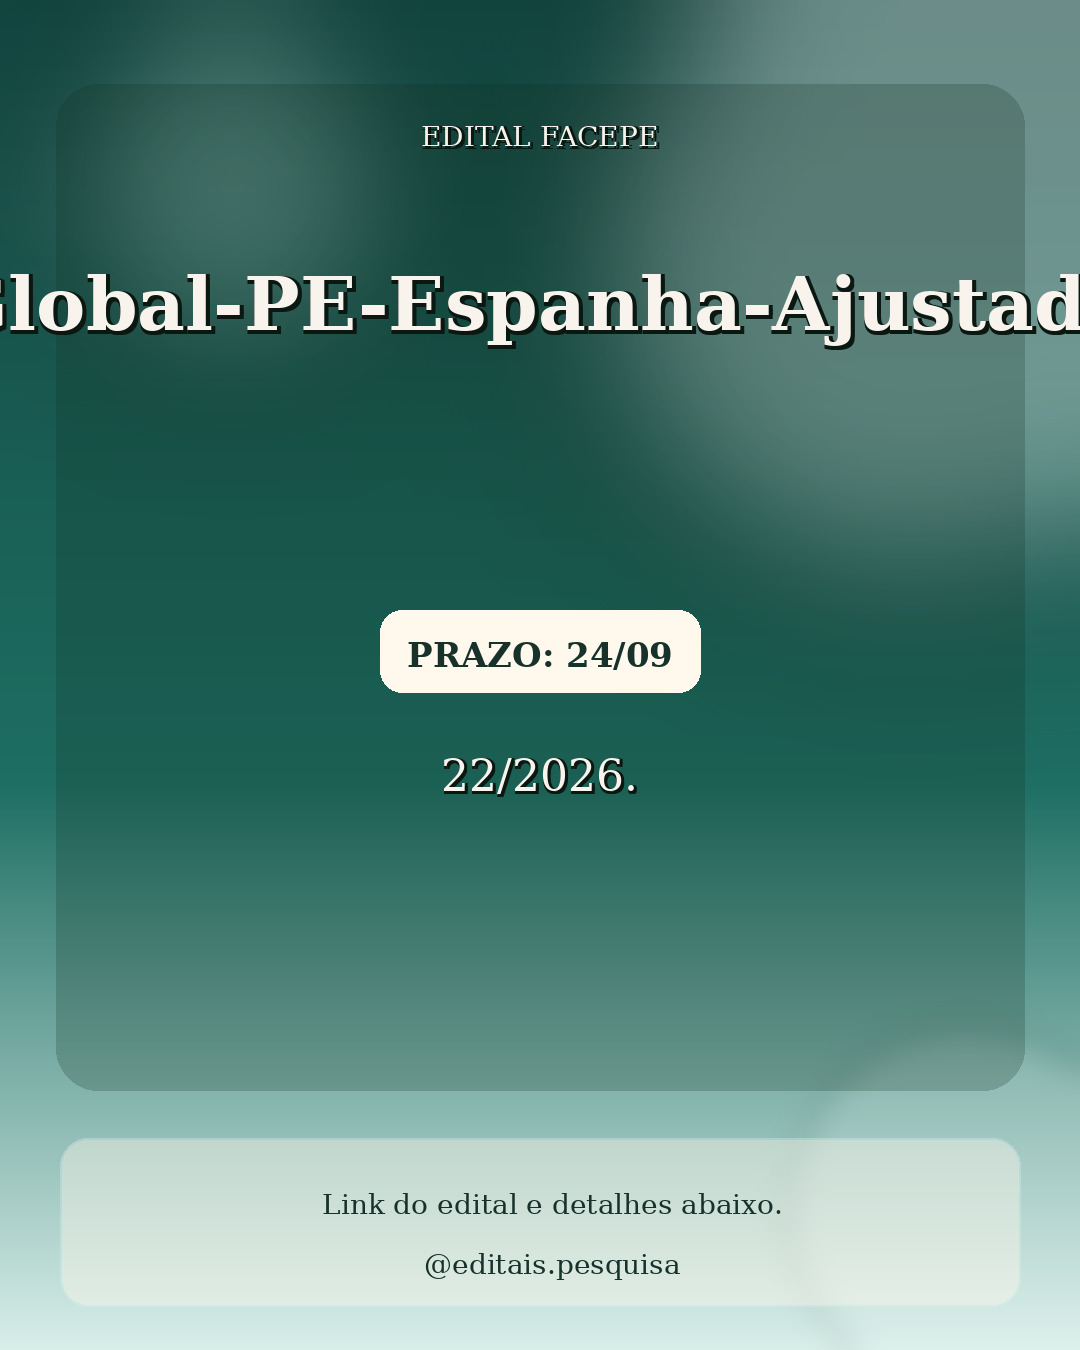
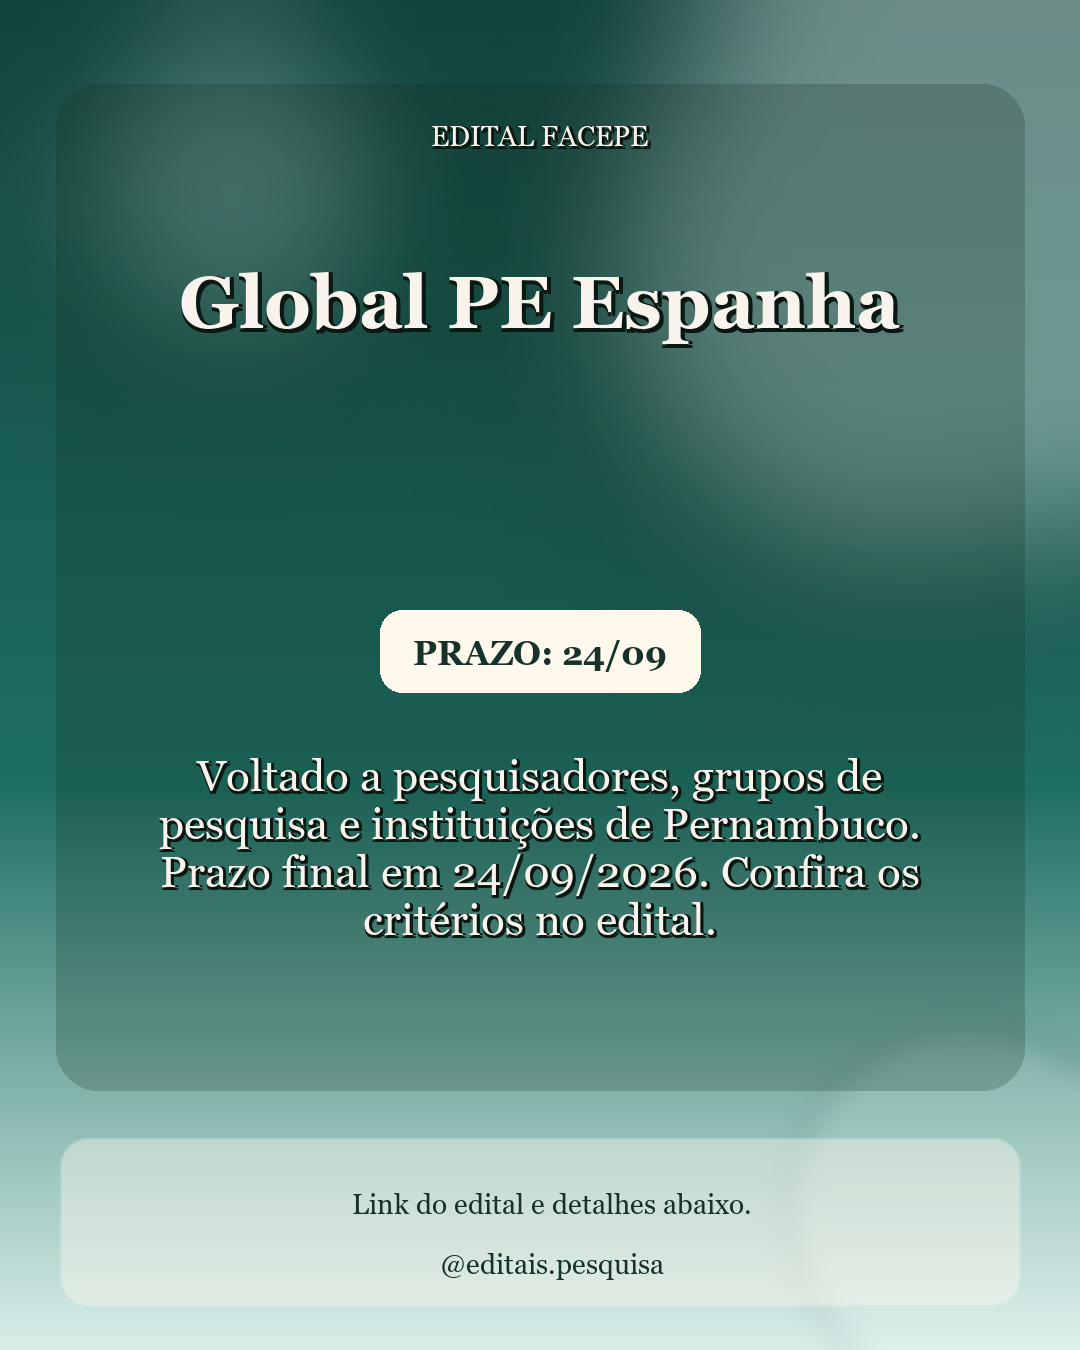
fix: keep long edital titles inside cards

diff --git a/tests/test_instagram_layout.py b/tests/test_instagram_layout.py
@@ -1,0 +1,52 @@
+from __future__ import annotations
+
+import unittest
+
+from src.config import Settings
+from src.models import Edital
+from src.services.instagram_service import InstagramService
+from src.services.render_service import RenderService
+
+
+def build_edital(**overrides: object) -> Edital:
+    payload: dict[str, object] = {
+        "id": "facepe_global_pe",
+        "titulo": "22/2026 -",
+        "orgao": "Fundacao de Amparo a Ciencia e Tecnologia do Estado de Pernambuco",
+        "fonte": "FACEPE",
+        "uf": "PE",
+        "categoria": "pesquisa",
+        "link": "https://www.facepe.br/2026.07.15-Global-PE-Espanha-Ajustado.pdf",
+        "resumo": "22/2026.",
+        "publico_alvo": "Pesquisadores",
+        "data_abertura": "2026-07-02",
+        "data_expiracao": "2026-09-24",
+        "data_ultima_coleta": "2026-07-31T00:00:00-03:00",
+    }
+    payload.update(overrides)
+    return Edital(**payload)
+
+
+class InstagramLayoutTests(unittest.TestCase):
+    def test_facepe_link_title_removes_filename_markers(self) -> None:
+        fields = RenderService().build_card_fields(build_edital())
+
+        self.assertEqual(fields["card_title"], "Global PE Espanha")
+        self.assertTrue(fields["card_summary"].startswith("Voltado a pesquisadores."))
+        self.assertIn("Prazo final em 24/09/2026.", fields["card_summary"])
+
+    def test_long_unbroken_title_stays_inside_card_width(self) -> None:
+        service = InstagramService(Settings())
+        max_width = service.FEED_WIDTH - 168
+        lines, font = service._fit_title_layout(
+            "Global-PE-Espanha-Ajustado-Sem-Espacos-Para-Testar",
+            max_width=max_width,
+            max_lines=4,
+        )
+
+        self.assertLessEqual(len(lines), 4)
+        self.assertTrue(all(service._text_width(line, font) <= max_width for line in lines))
+
+
+if __name__ == "__main__":
+    unittest.main()

diff --git a/src/services/render_service.py b/src/services/render_service.py
@@ -464,6 +464,8 @@ class RenderService:
         title = re.sub(r'\bFINAL\b', '', title, flags=re.I)
         title = re.sub(r'\bEdital[ -]+0*(\d{1,2})[ -]+(\d{4})\b', r'Edital \1/\2', title, flags=re.I)
         title = re.sub(r'\b0*(\d{1,2})[ -]+(\d{4})\b', r'\1/\2', title)
+        title = re.sub(r'(?<=\w)-(?=\w)', ' ', title)
+        title = re.sub(r'\b(?:ajustado|atualizado|revisado)\b', '', title, flags=re.I)
         if fonte:
             title = re.sub(rf'\b{re.escape(fonte)}\b', '', title, flags=re.I)
         title = re.sub(r'\bcatedras\b', 'Cátedras', title, flags=re.I)
@@ -539,7 +541,7 @@ class RenderService:
     def _extract_summary_excerpt(self, edital: Edital, max_chars: int) -> str:
         title = self._display_text(edital.titulo)
         summary = self._sanitize_summary(edital.resumo)
-        if not summary or summary == title:
+        if not summary or summary == title or self._looks_like_number_only_summary(summary):
             return ''
 
         sentences = self._split_sentences(summary)
@@ -563,6 +565,15 @@ class RenderService:
         if len(first_sentence) <= max_chars:
             return first_sentence
         return ''
+
+    def _looks_like_number_only_summary(self, value: str) -> bool:
+        return bool(
+            re.fullmatch(
+                r'(?:edital\s*)?(?:n[.º°o]?\s*)?\d{1,3}/\d{4}[.!]?',
+                value.strip(),
+                flags=re.I,
+            )
+        )
 
     def _sanitize_summary(self, value: str | None) -> str:
         summary = self._display_text(value)

diff --git a/src/services/instagram_service.py b/src/services/instagram_service.py
@@ -766,7 +766,11 @@ class InstagramService:
         max_lines: int,
         allow_overflow: bool = True,
     ) -> list[str]:
-        words = (value or "").split()
+        words = [
+            fragment
+            for word in (value or "").split()
+            for fragment in self._split_word_to_width(word, font, max_width)
+        ]
         if not words:
             return [""]
 
@@ -793,6 +797,29 @@ class InstagramService:
         last_line = self._truncate_line_to_width(" ".join(remaining_words), font, max_width)
         truncated.append(last_line)
         return truncated
+
+    def _split_word_to_width(
+        self,
+        word: str,
+        font: ImageFont.ImageFont | ImageFont.FreeTypeFont,
+        max_width: int,
+    ) -> list[str]:
+        if self._text_width(word, font) <= max_width:
+            return [word]
+
+        fragments: list[str] = []
+        current = ""
+        for character in word:
+            candidate = current + character
+            if current and self._text_width(candidate, font) > max_width:
+                fragments.append(current)
+                current = character
+                continue
+            current = candidate
+
+        if current:
+            fragments.append(current)
+        return fragments or [word]
 
     def _truncate_line_to_width(
         self,
